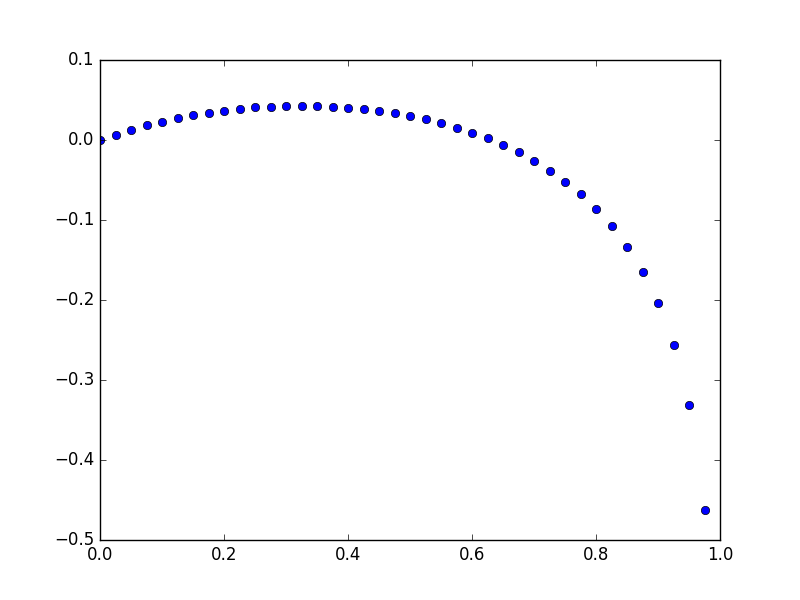
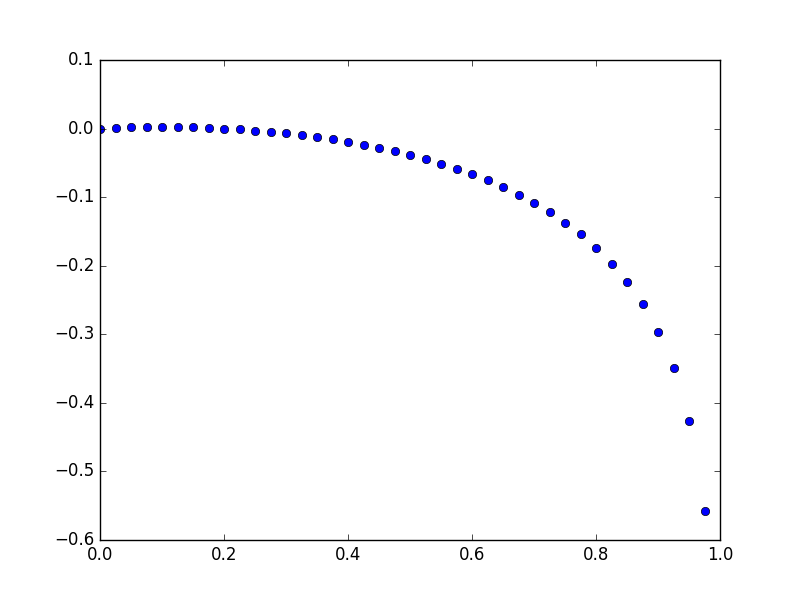
code for new functions

diff --git a/scratch/simple-kelly.py b/scratch/simple-kelly.py
@@ -55,6 +55,28 @@ def kelly_fraction(p,a=1.0,b=1.0):
     m = b*p - a*(1-p)
     return float(m)/float(a)/float(b)	
 
+def wealth_afer_n(initial_wealth, n_success, n_failure, kelly_fraction):
+	"""
+	Returns the amount of wealth after n trials, resulting from betting using Kelly criterion
+	Parameters
+	----------
+	initial_wealth: float
+		The initial amount of wealth
+	n_success: int
+		Number of successes in n trials
+	n_failure: int
+		Number of failurs in n trials
+	kelly_fraction: float
+		The value of kelly fraction
+
+	Returns
+	-------
+	x_n: float
+		Amount of wealth after n (where n = n_sucess + n_failure) trials
+	"""
+	x_n = initial_wealth*((1 + kelly_fraction)**n_success)*((1 - kelly_fraction)**n_failure)
+	return x_n
+
 def expected_log_return(p, f, a=1.0, b=1.0):
 	"""
 	Calculates expected log return per trial (g). This is given by:
@@ -73,28 +95,99 @@ def expected_log_return(p, f, a=1.0, b=1.0):
 
     Returns
     -------
-    The expectation of the log growth rate of bankroll
+    g: float
+	    The expectation of the log growth rate of bankroll
 	"""
 
 	g = ((1-p)*np.log10(1 - a*f)) + (p*np.log10(1 + b*f))
-
 	return g
 
-n = 10000
-p = 0.55
-a = 1.0
-b = 2.0
+def variance_log_return(p, f, a=1.0, b=1.0):
+	"""
+	Calculates the variance log return. This is given by:
+	s^2 = p*q*{ln[(1 + a*f)/(1 - b*f)]}^2
 
-k_f = kelly_fraction(p, a, b)
-g = expected_log_return(p, k_f, a, b)
-print "Calculated Kelly fraction: ", k_f
-print "Calculated expected growth rate: ", g
+	Parameters
+	----------
+    p: float
+        The probability of winning the bet
+    a: float
+        The factor the amount bet will multiplied by upon losing
+    b: float
+        The factor the amount bet will multiplied by upon winning
+    f: float
+    	Fraction of bankroll to bet
 
-test_fractions = np.arange(0.0, 1.0, 0.025)
-test_rates = [expected_log_return(p, i, a, b) for i in test_fractions]
+    Returns
+    -------
+    The variance of the log growth rate of bankroll
+	"""
+	s_squared = p*(1-p)*((np.log((1 + a*f)/(1 - b*f)))**2)
+	return s_squared
 
-test_kelly = test_fractions[test_rates.index(max(test_rates))]
-print "Estimated fraction that maximized log growth rate: ", test_kelly
-plt.plot(test_fractions, test_rates, 'o')
-#plt.show()
-plt.savefig("test_g.png")
+def probability_reaching_target(target, n_trials):
+	"""
+	Returns the probability of reaching a target wealth on or before n trials, when betting using Kelly criterion
+
+	Parameters
+	----------
+	target: float
+		The value of target wealth
+	n: int
+		The number of trials on or before which target wealth is reached 
+	
+	"""
+
+
+def probability_exceeding_target(target, n_trials):
+	"""
+	Returns the probability of having wealth euqal to or more than the target amount at the end of n_trials 
+	Parameters
+	----------
+	target: float
+		The value of target wealth
+	n: int
+		The number of trials on or before which target wealth is reached 
+
+	"""
+
+
+def probability_fractional_loss(fraction):
+	"""
+	Returns the probability of being reduced to a given fraction of the initial wealth
+	Parameters
+	----------
+	fraction: float
+		The fraction of initial wealth left after betting
+	"""
+
+
+def test_growth_rate(n, p, a, b):
+	k_f = kelly_fraction(p, a, b)
+	g = expected_log_return(p, k_f, a, b)
+	print "Calculated Kelly fraction: ", k_f
+	print "Calculated expected growth rate: ", g
+
+	test_fractions = np.arange(0.0, 1.0, 0.025)
+	test_rates = [expected_log_return(p, i, a, b) for i in test_fractions]
+
+	test_kelly = test_fractions[test_rates.index(max(test_rates))]
+	print "Estimated fraction that maximized log growth rate: ", test_kelly
+	plt.plot(test_fractions, test_rates, 'o')
+	#plt.show()
+	plt.savefig("test_g.png")
+
+
+
+
+
+def main():
+	"""
+	Run various test to check these functions
+	"""
+
+	n = 10000
+	p = 0.55
+	a = 1.0
+	b = 2.0
+	#test_growth_rate(n, p, a, b)
